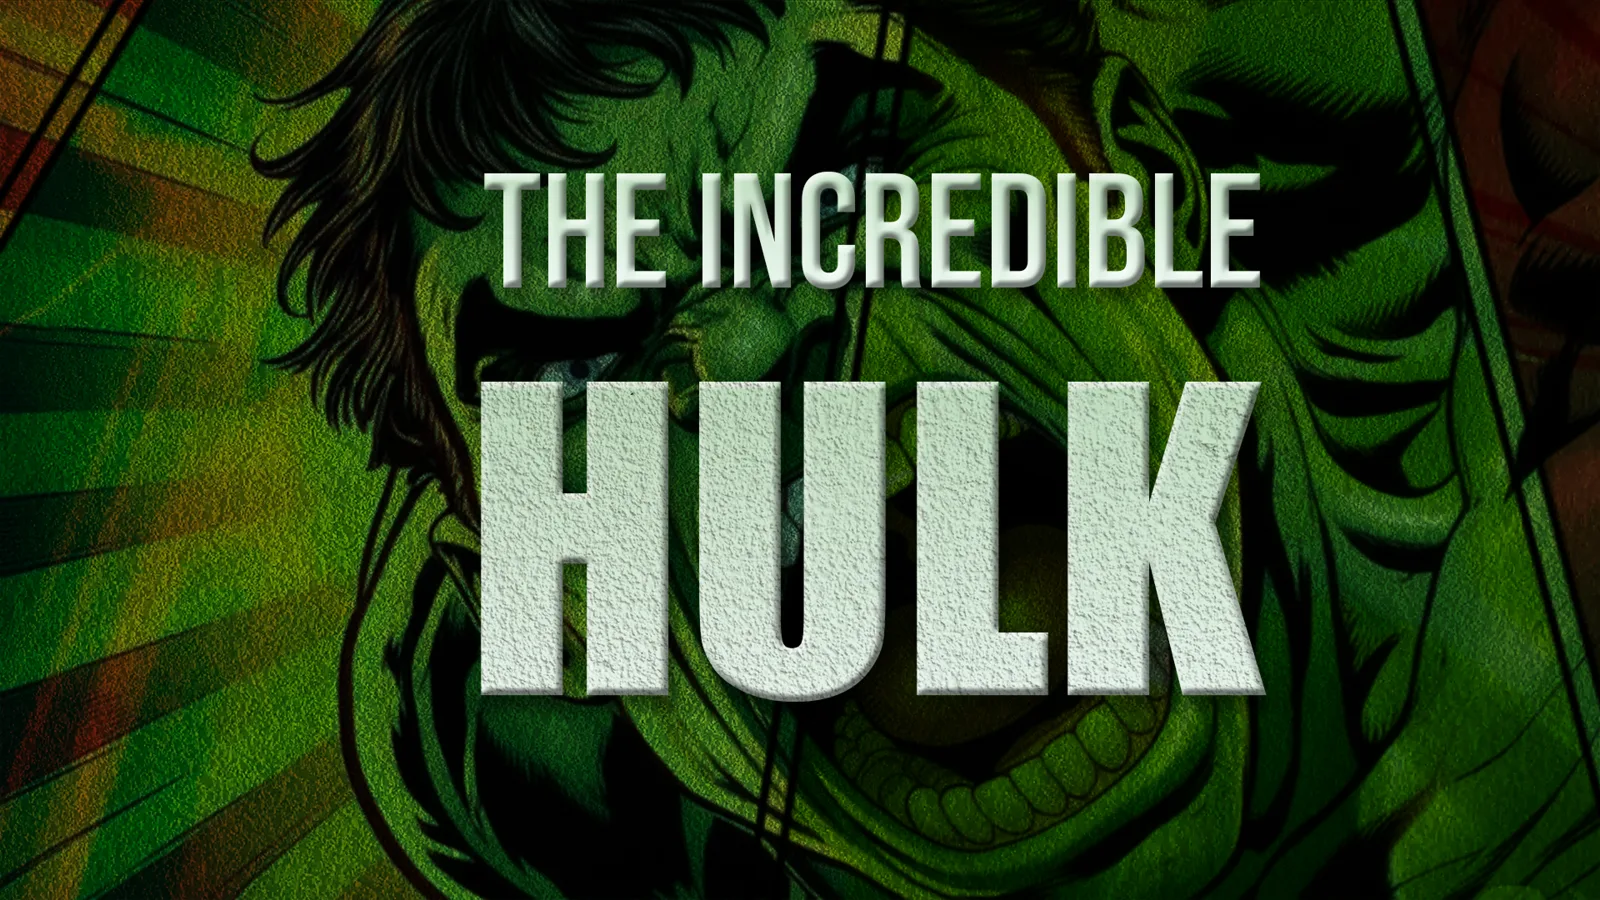
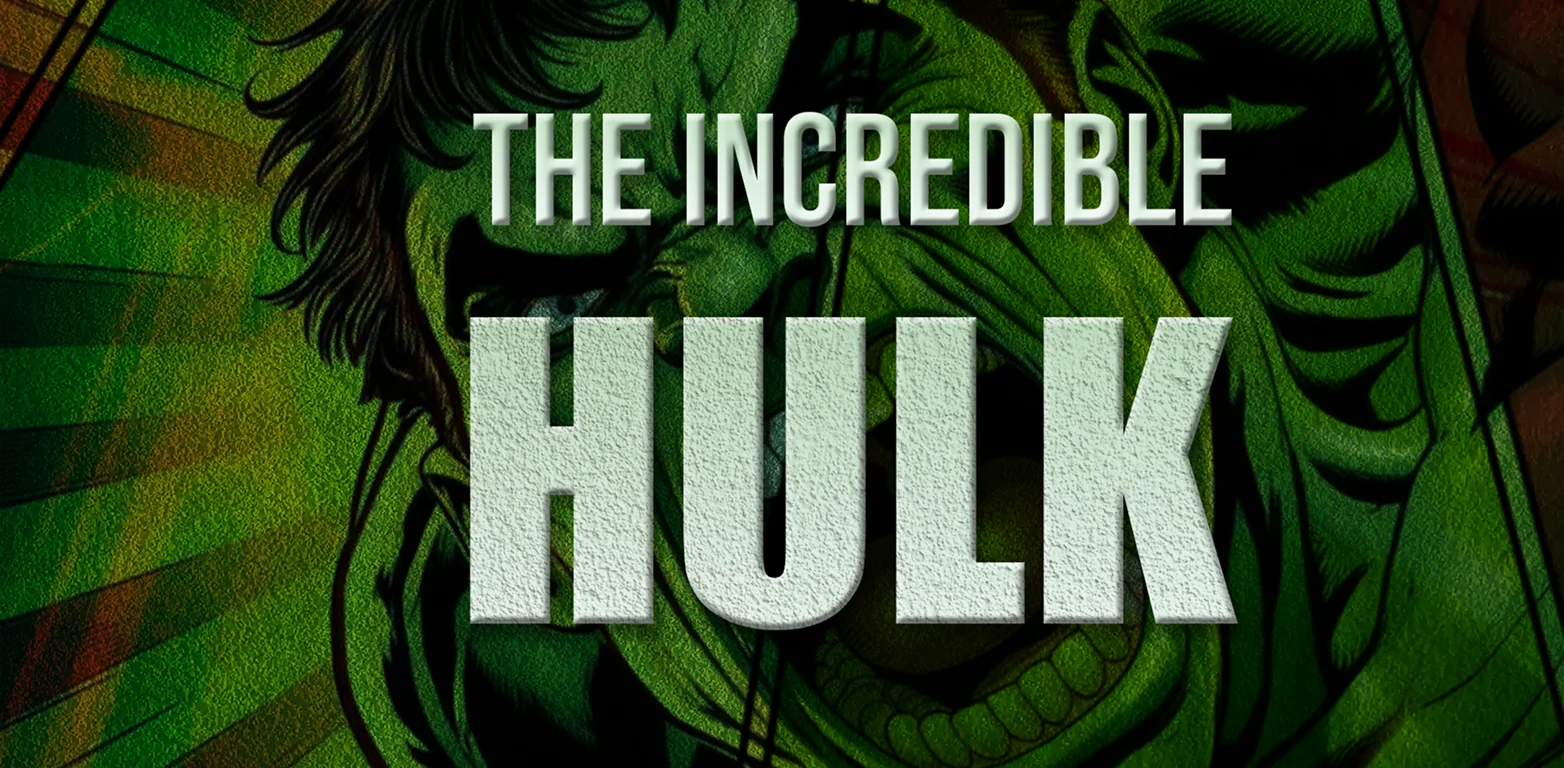
feat: mosaic sized to the 768x1564 / 1564x768 cover template
The desktop mosaic moves from 5 columns at 5:3 to 3 columns at 3:2, so
the tall card is ~0.48:1 and the wide cards ~2.04:1, matching the cover
artwork. Before, the tall INLINE card cut about a quarter of its cover.
Also swaps in the updated 1564x768 Incredible Hulk cover.

diff --git a/src/app/components/ProjectGrid.tsx b/src/app/components/ProjectGrid.tsx
@@ -12,6 +12,8 @@ function groupsOfThree(items: Project[]) {
  * One desktop mosaic band. Full groups of three alternate between
  * "two wide + one tall" (tall on the right) and its mirror, so any number of
  * projects keeps the asymmetric rhythm. A trailing 1 or 2 fill a simple row.
+ * One column tall + two columns wide at 3:2 makes the tall card ~768x1564 and
+ * the wide cards ~1564x768 in shape, so covers made at those sizes barely crop.
  */
 function MosaicBand({ group, mirrored }: { group: Project[]; mirrored: boolean }) {
   if (group.length < 3) {
@@ -26,19 +28,19 @@ function MosaicBand({ group, mirrored }: { group: Project[]; mirrored: boolean }
 
   const [a, b, c] = group;
   return (
-    <div className="aspect-[5/3] w-full">
-      <div className="grid h-full grid-cols-5 grid-rows-2 gap-6">
+    <div className="aspect-[3/2] w-full">
+      <div className="grid h-full grid-cols-3 grid-rows-2 gap-6">
         {mirrored ? (
           <>
-            <ProjectCard project={a} feature className="col-span-2 row-span-2" />
-            <ProjectCard project={b} className="col-span-3 col-start-3 row-span-1" />
-            <ProjectCard project={c} className="col-span-3 col-start-3 row-span-1 row-start-2" />
+            <ProjectCard project={a} feature className="col-span-1 row-span-2" />
+            <ProjectCard project={b} className="col-span-2 col-start-2 row-span-1" />
+            <ProjectCard project={c} className="col-span-2 col-start-2 row-span-1 row-start-2" />
           </>
         ) : (
           <>
-            <ProjectCard project={a} className="col-span-3 row-span-1" />
-            <ProjectCard project={b} className="col-span-3 row-span-1" />
-            <ProjectCard project={c} feature className="col-span-2 col-start-4 row-span-2 row-start-1" />
+            <ProjectCard project={a} className="col-span-2 row-span-1" />
+            <ProjectCard project={b} className="col-span-2 row-span-1" />
+            <ProjectCard project={c} feature className="col-span-1 col-start-3 row-span-2 row-start-1" />
           </>
         )}
       </div>
